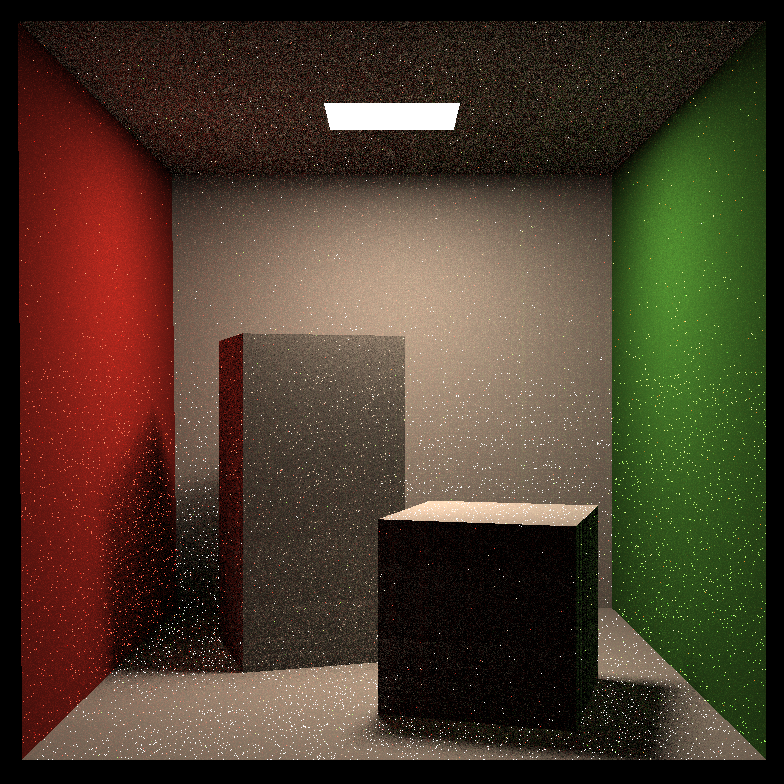
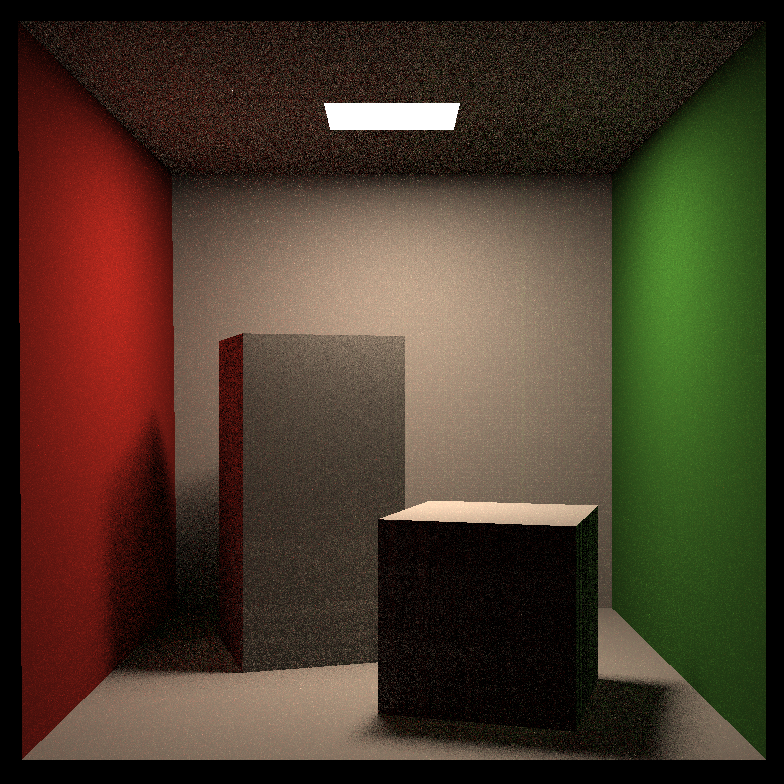
10.18 homework7 improve castRay() to get better picture

Changed region(s): [[0.0918, 0.4286, 0.8878, 0.9796], [0.0306, 0.0306, 0.9796, 0.3673]]

diff --git a/Homework7/Assignment7/Scene.cpp b/Homework7/Assignment7/Scene.cpp
@@ -66,8 +66,8 @@ Vector3f Scene::castRay(const Ray &ray, int depth) const
     if (!inter_i.happened) // 光线与场景没有交点，返回背景色
         return {};
     
-    if (inter_i.obj->hasEmit()) // 交点是光源，返回光源的颜色
-        return inter_i.m->getEmission();
+    if (inter_i.obj->hasEmit()) // 交点是光源：1.直接光，返回光源的颜色；2.间接光，返回{0}（黑色）
+        return depth == 0 ? inter_i.m->getEmission() : Vector3f(0);
 
     // 交点是物体，颜色来自于 光源的直接照射 和 物体的反射/折射
     Vector3f L_dir(0), L_indir(0);

diff --git a/Homework7/Assignment7/Renderer.cpp b/Homework7/Assignment7/Renderer.cpp
@@ -28,7 +28,7 @@ void Renderer::Render(const Scene& scene)
     int m = 0;
 
     // change the spp value to change sample ammount
-    int spp = 64;   // origin is 16
+    int spp = 16;   // origin is 16
     std::cout << "SPP: " << spp << "\n";
 
 /*
